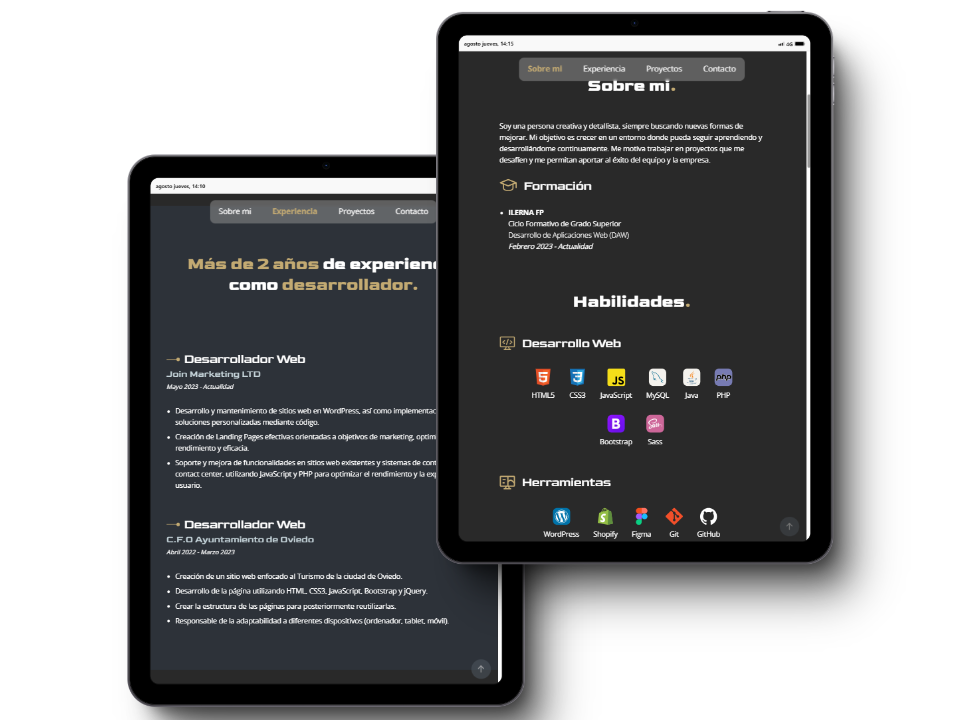
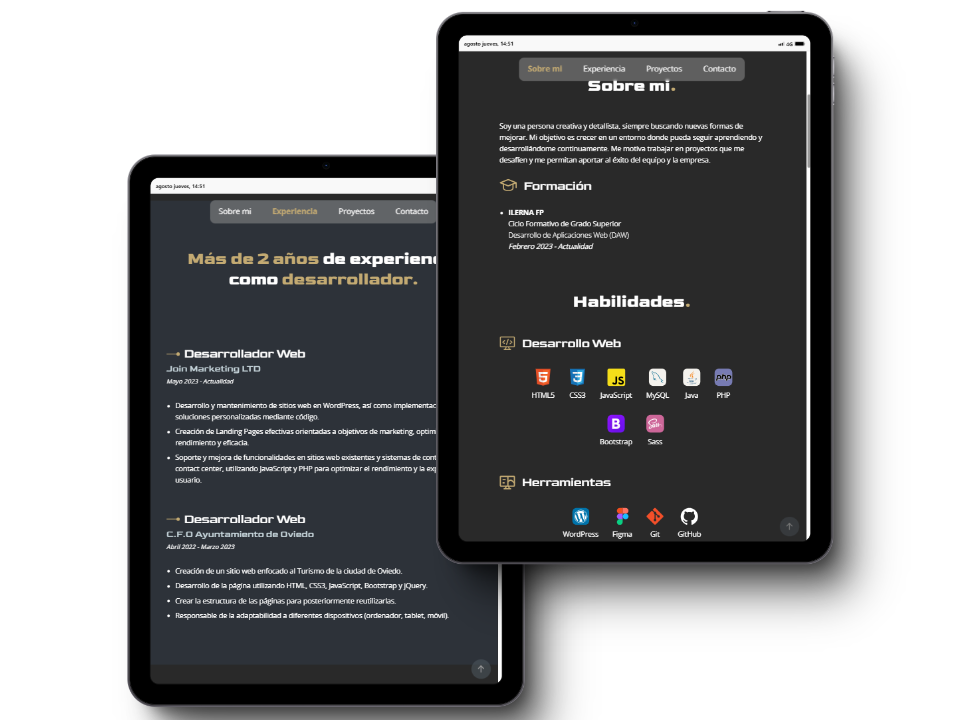
del: shopify

Changed region(s): [[0.1562, 0.4889, 0.4688, 0.8861], [0.1875, 0.3361, 0.4688, 0.4278], [0.5625, 0.7028, 0.75, 0.7639]]

diff --git a/index.html b/index.html
@@ -267,10 +267,6 @@
                                     WordPress
                                 </li>
                                 <li class="herramientas-icon__item">
-                                    <img width="40" height="40" loading="lazy" src="/static/icon-shopify.svg" class="herramientas-icon__image" alt="Icono de Shopify">
-                                    Shopify
-                                </li>
-                                <li class="herramientas-icon__item">
                                     <img width="40" height="40" loading="lazy" src="/static/icon-figma.svg" class="herramientas-icon__image" alt="Icono de Figma">
                                     Figma
                                 </li>
